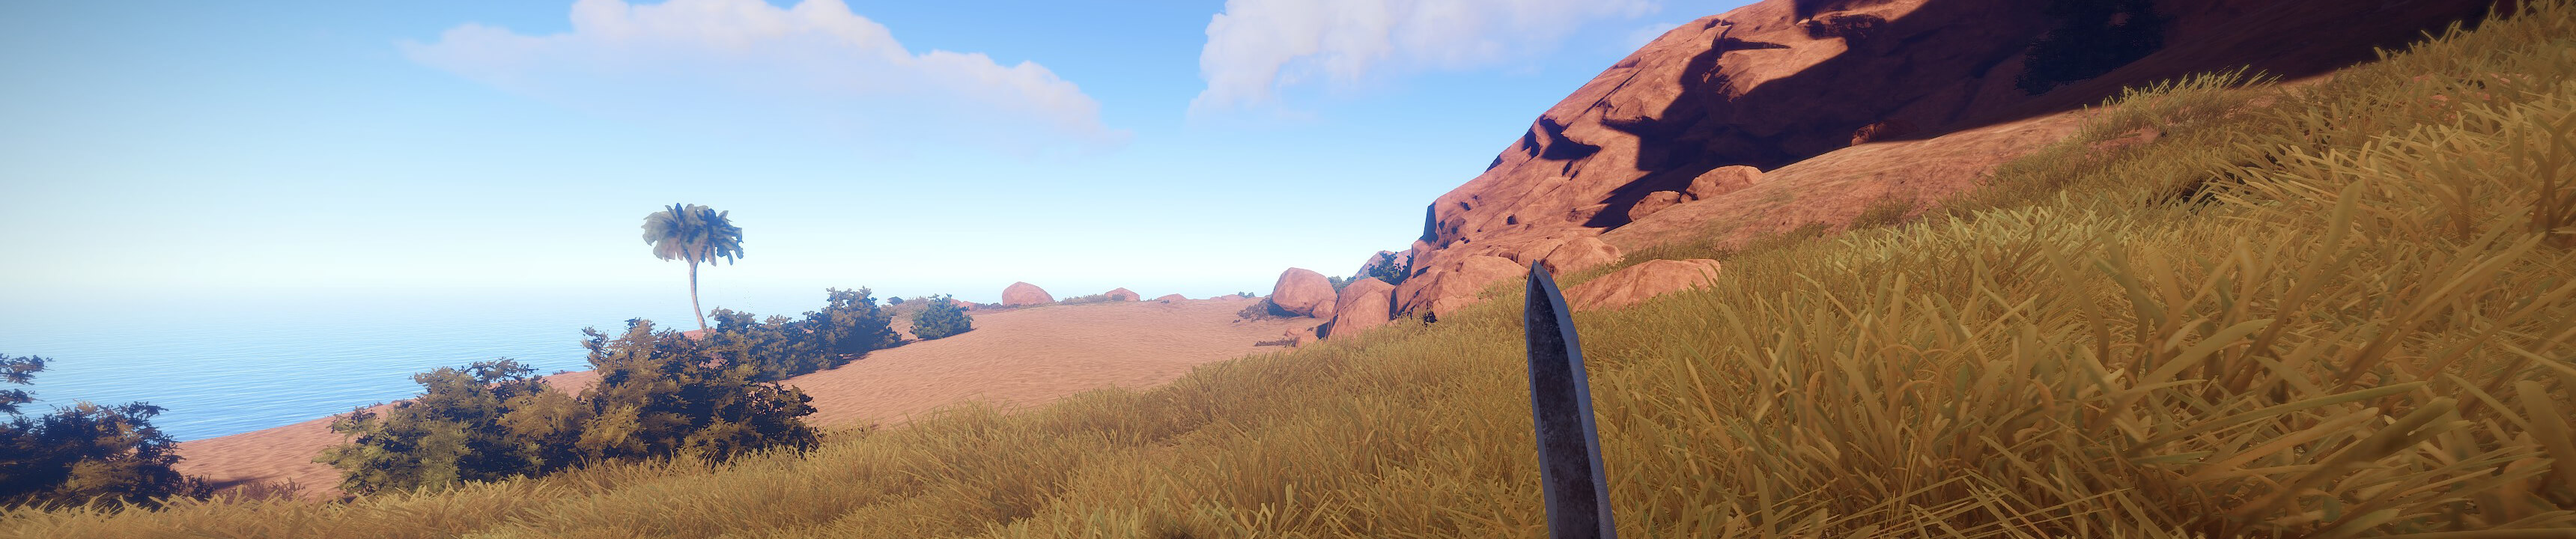
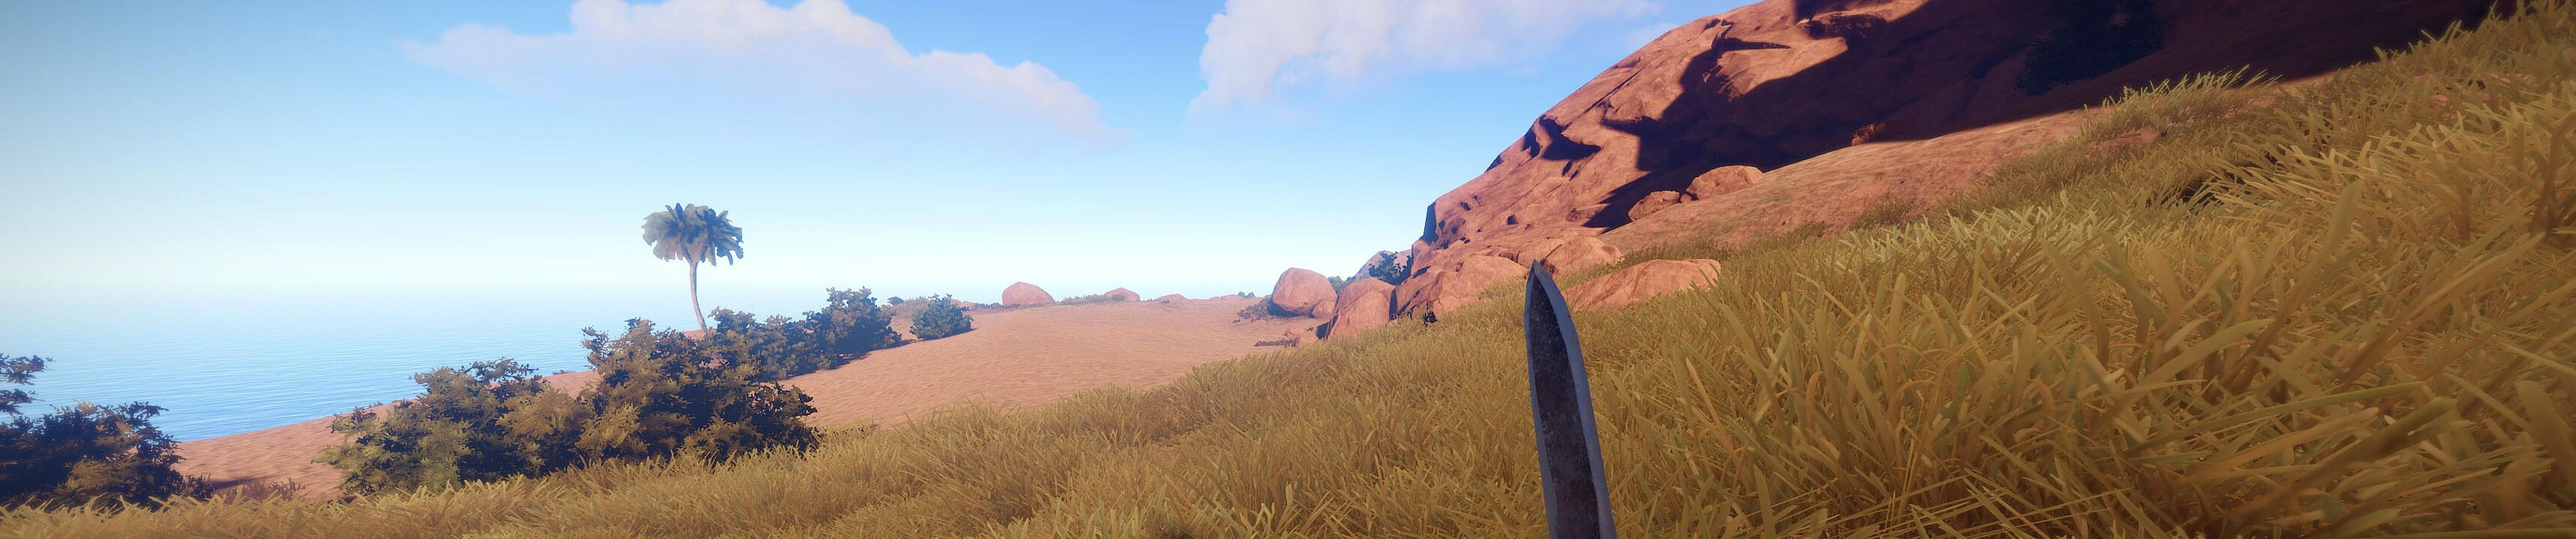
Added new project, compressed images more.

diff --git a/index.html b/index.html
@@ -121,6 +121,17 @@
                   </p>
                 </div>
               </a>
+              <a href="https://github.com/dhack8/HackFest-2017" target="_blank">
+                <div class="project">
+                  <div class="imagebox">
+                    <img src="img/instainsightsicon.jpg" alt="A icon of one of my projects, Instan insights"/>
+                  </div>
+                  <h4>Insta Insights</h4>
+                  <p>
+                    For SOT Hackfest 2017 my team, #gainz decided to create an Instagram analytics mobile first website. The goal was to enable any Instagram user to analyze their follower's engagement to help them increase their audience. The mockup uses Node.js, Javascript, HTML & CSS. #gainz placed first equal.
+                  </p>
+                </div>
+              </a>
               <a href="https://github.com/dhack8/Mapper-A1-2" target="_blank">
                 <div class="project">
                   <div class="imagebox">
